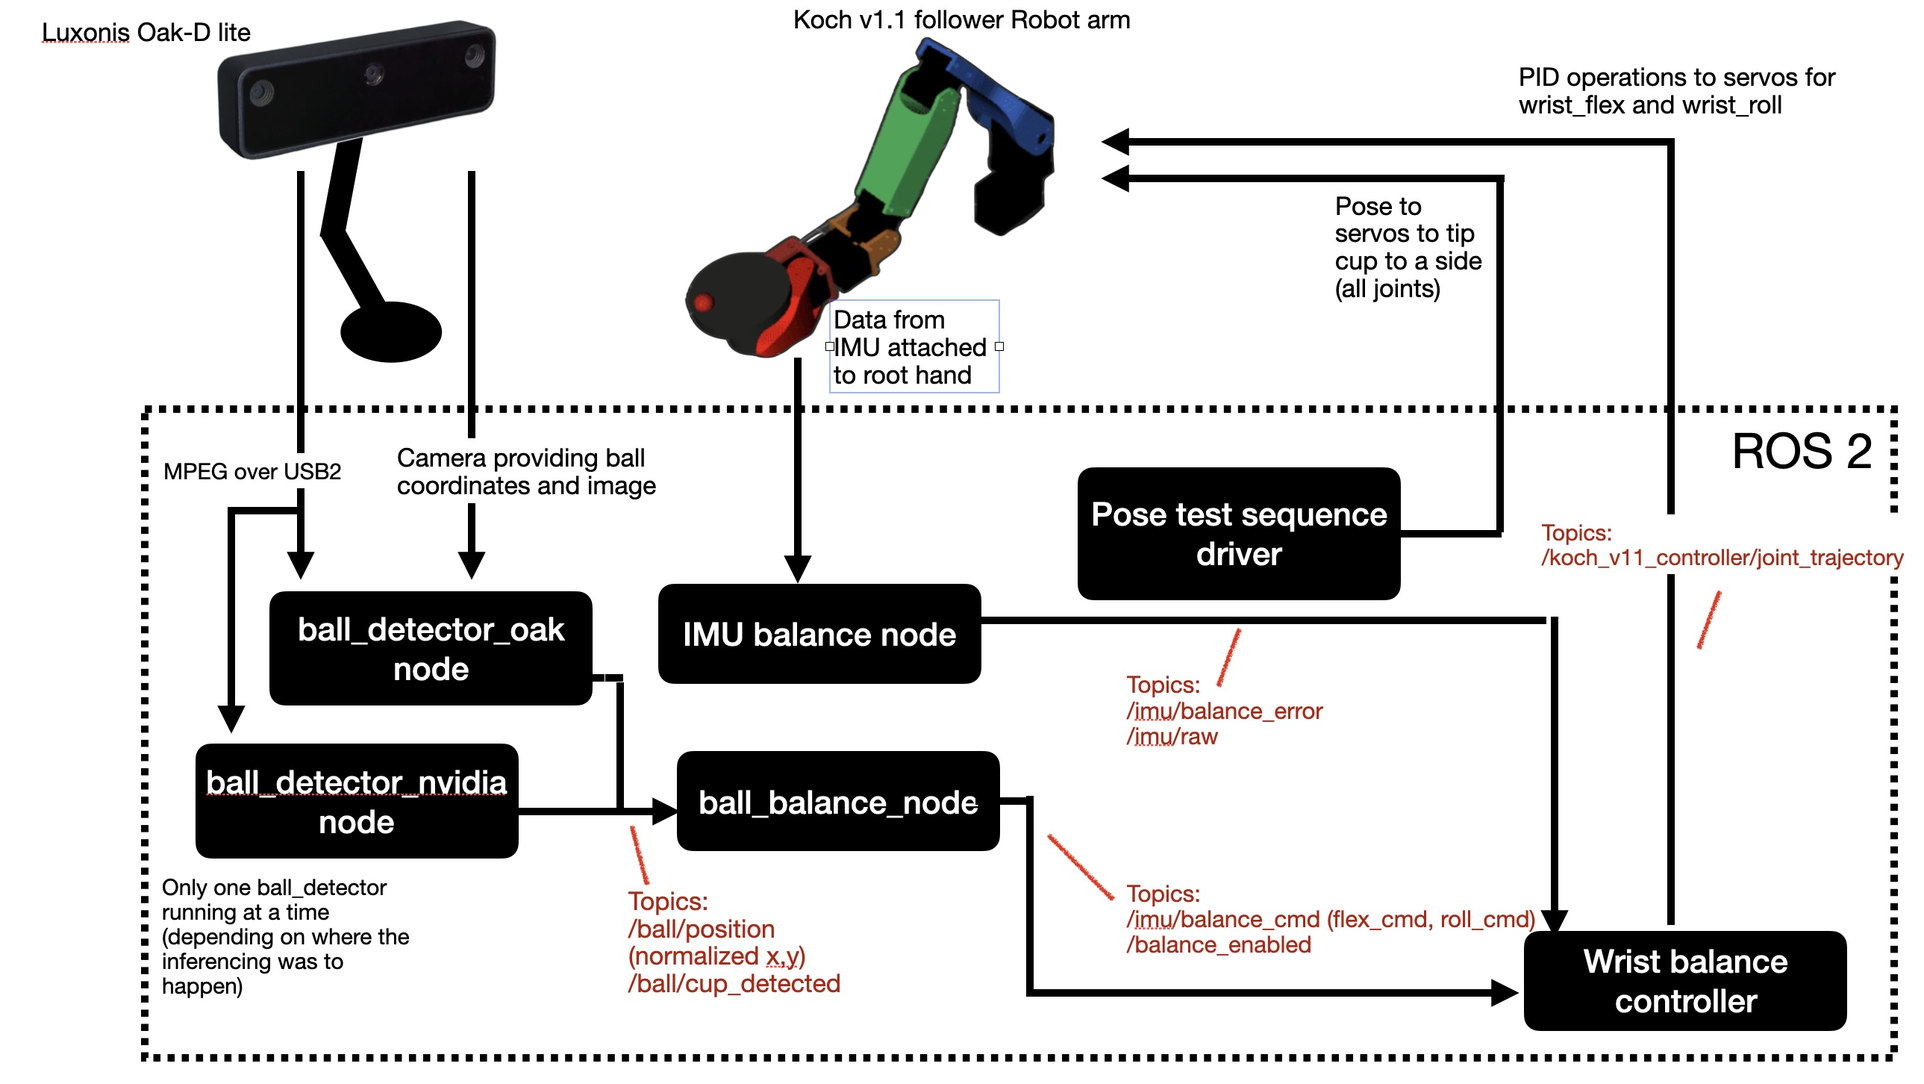
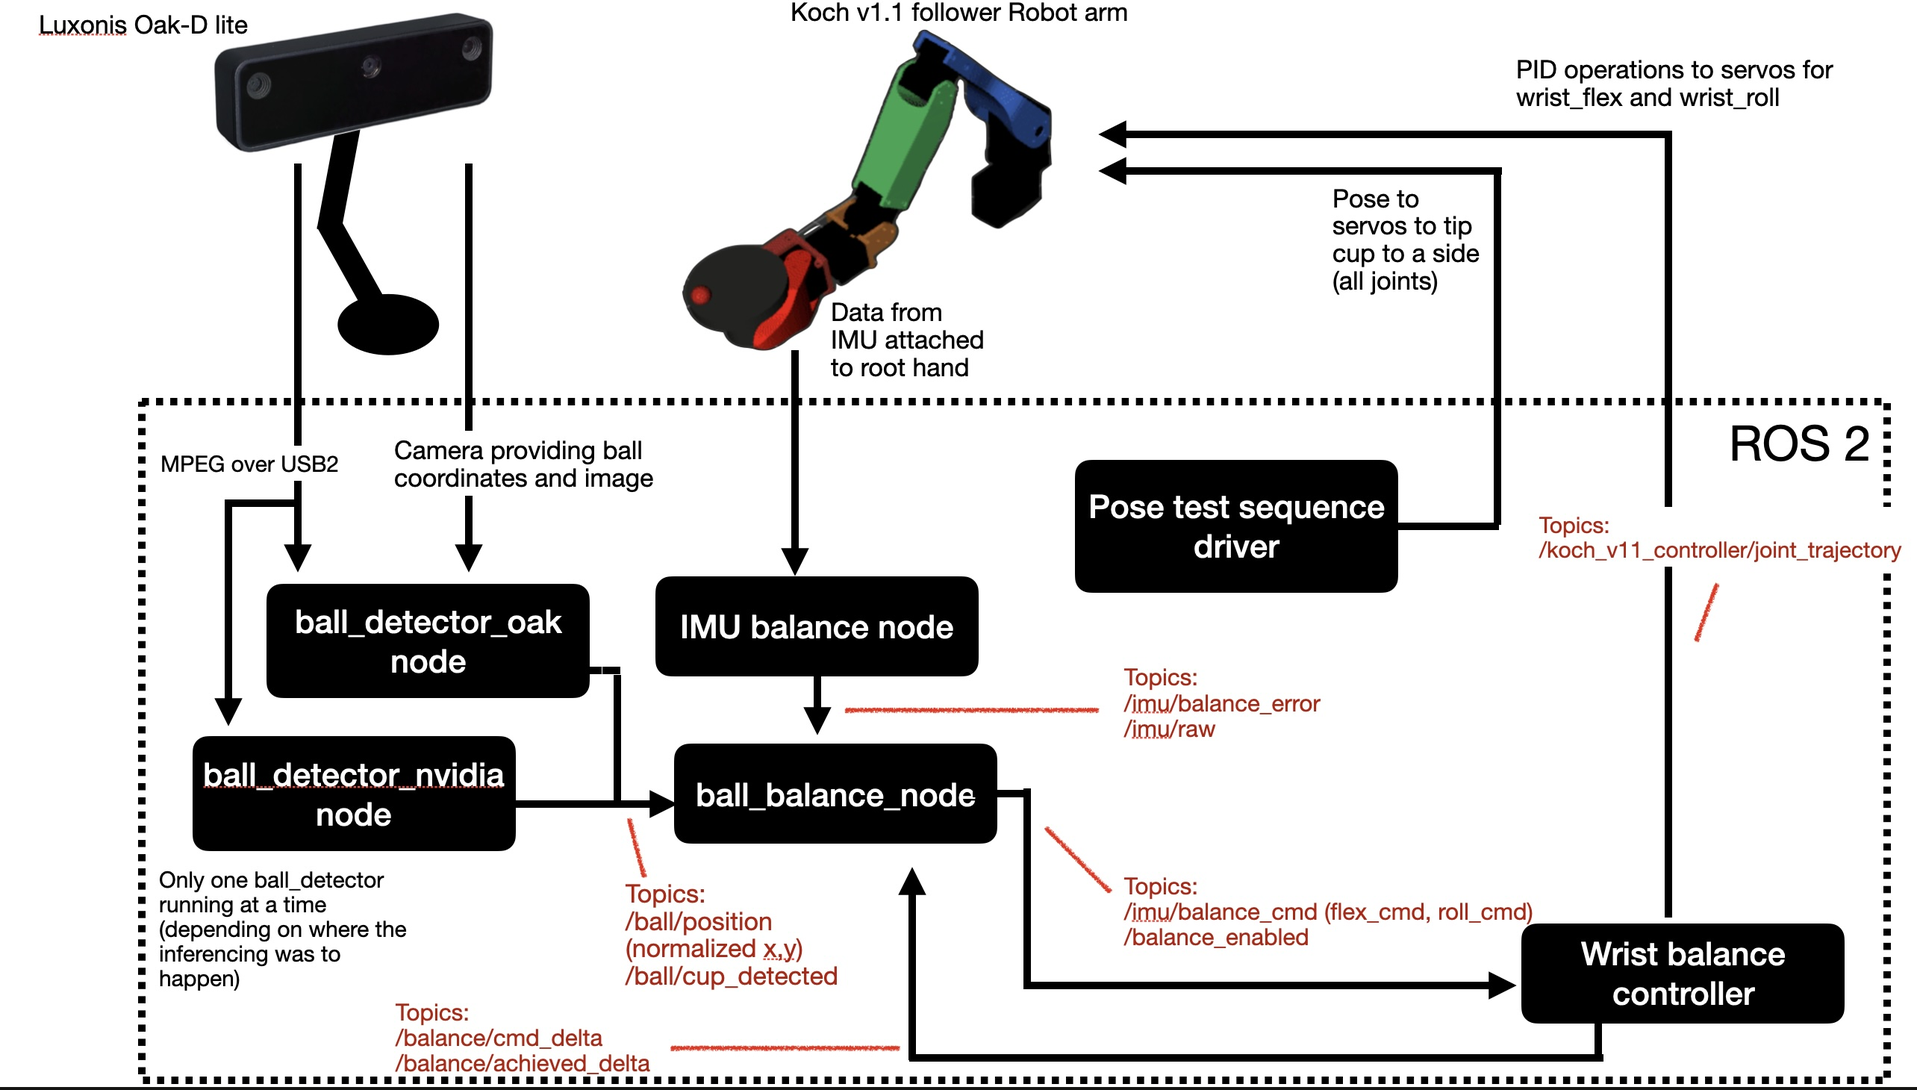
updated pid documentation

Changed region(s): [[0.0, 0.0, 1.0, 1.0], [0.0312, 0.0, 0.2492, 0.093], [0.0623, 0.5269, 0.0935, 0.5579]]

diff --git a/documentation/ball_balance_pid_documentation.md b/documentation/ball_balance_pid_documentation.md
@@ -97,11 +97,11 @@ The positions from which the PID must operate to balance are defined in the [pos
 
 *The standard characterization of I-term** is "accumulates past error over time to eliminate steady-state offset." The classic example: a thermostat with only P-term will hold temperature slightly below the setpoint because the proportional correction weakens as the error shrinks — eventually the small remaining error produces just enough heating to balance heat loss, but never quite reaches the target. The I-term accumulates that persistent small error and keeps increasing the command until the offset is eliminated.
 
-Currently, we are using the error in the servo's commanded vs. actual position to define the I-term error. That is, after each pose is set each servo 's wheel has been moved to some position. When the PID algorithm kicks in it will start to set new incremental targets for the wrist_flex and wrist_roll in order to move the ball into the center. How well the servo does to reach that position defines the error. It can either do really well, fail misreably, or fall somewhere in between. In all cases we can get that information because the servo reports its position. 
+Currently, we are using the error in the servo's commanded vs. actual position to define the I-term error. That is, after each pose is set each servo's wheel has been moved to some position. When the PID algorithm kicks in it will start to set new incremental targets for the wrist_flex and wrist_roll in order to move the ball into the center. How well the servo does to reach that position defines the error. It can either do really well, fail misreably, or fall somewhere in between. In all cases we can get that information because the servo reports its position. 
 
-Lets look at an actual scenario for one of the difficult scenarios in our test: pose 5. In this one, the arm tips the cup forward in a manner that puts significant strain on the wrist and elbow flex joints (essentially Servos 3 and 4). That is, it starts close to the wrist-flex-low pose shown in the figure above (position =  2.3 radians). Gravity makes it hard to do small moves. It can move in a single pose from there to the wrist-flex-high (position = 2.7 radians), but doing small incremental ones is more difficult for the XL-330's as is illustrated in this sequence below. The table output comes from the [corr_analysis.py](../balance/scripts/corr_analysis.py) script which analyzes the raw correction log output from the [wrist_balance_controller.py](../writing_robot_control/writing_robot_control/wrist_balance_controller.py). In this output it evaluates how well the two joints did in the sequence while the PID was operating. For each step the wrist flex is being commanded to move 1.719 radians but it is unable to make much headway. 
+Lets look at an actual scenario for one of the difficult scenarios in our test: pose 5. In this one, the arm tips the cup forward in a manner that puts significant strain on the wrist and elbow flex joints (essentially Servos 3 and 4). That is, it starts close to the wrist-flex-low pose shown in the figure above (position =  2.3 radians). Gravity makes it hard to do small moves. It can move in a single pose from there to the wrist-flex-high (position = 2.7 radians), but doing small incremental ones is more difficult for the XL-330's as is illustrated in this sequence below. The table output comes from the [corr_analysis.py](../balance/scripts/corr_analysis.py) script which analyzes the raw correction log output from the [wrist_balance_controller.py](../writing_robot_control/writing_robot_control/wrist_balance_controller.py). In this output it evaluates how well the two joints did in the sequence while the PID was operating. For each step the wrist flex was being commanded to move 1.719 radians but it is unable to make much headway. At step 1 it is being commanded to move from 2.2918 rad to 2.318 rad, but one can see that by the time step 2 fires it had only moved to 2.2933 (see the from in step 2). now the difference between the ending (2.2933 rad) and the start (2.2918 rad) is 0.0015 rad or 0.086 degrees. The flex servo was commanded to achieve 1.719 degrees, but only managed 0.086, that is 5% of goal. On the otherhand, the wrist_roll on the same steps did far better, achieving 92% of what it was targetted to do. This example also has no I-term influence.
 
-For example, at step 1 it is being commanded to move from 2.2918 rad to 2.318 rad, but one can see that by the time step 2 fires it had only moved to 2.2933 (see the from in step 2). now the difference between the ending (2.2933 rad) and the start (2.2918 rad) is 0.0015 rad or 0.086 degrees. The flex servo was commanded to achieve 1.719 degrees, but only managed 0.086, that is 5% of goal. On the otherhand, the wrist_roll on the same steps did far better, achieving 92% of what it was targetted to do. In this case, it was much easier to move side-to-side than forward to back. But the main point is that error in achievement by the wrist_flex joint needs to be fed back into the controller, else the outcome will remain the same: the proportional movement will stay fixed (a command to 1.719 degrees) without success. Since we know that larger steps are easier than smaller ones for the servo to achieve, the I contribution should grow 1.719 degrees into something larger. This wasn't being done in the case below, but has now been implemented.
+ On the otherhand, the wrist_roll on the same steps did far better, achieving 92% of what it was targetted to do. In this case, it was much easier to move side-to-side than forward to back. But the main point is that error in achievement by the wrist_flex joint needs to be fed back into the controller, else the outcome will (did) remain the same: the proportional movement will stay fixed (in this example a command to 1.719 degrees) without success. Since we know that larger steps are easier than smaller ones for the servo to achieve, the I contribution should grow 1.719 degrees into something larger. This wasn't being done in the case below, but has now been implemented.
 
 
 ```
@@ -130,22 +130,41 @@ For example, at step 1 it is being commanded to move from 2.2918 rad to 2.318 ra
 
 The error of the servo accumulates `commanded_delta - achieved_delta` — the gap between what was asked and what was delivered. This is conceptually the same thing but measured at a different layer. Notice that we are not asking:  "how long has the ball been off-center?", but rather "how much have I asked the servo to do that it hasn't done yet?" The accumulated undelivered displacement represents a debt that the controller owes to the system.
 
+The example below illustrates I-term impact. Step 5 hard a target of 1.770 degress. but only achieved 20% of that. The I-term then boosts the next step to shoot for 3.272 degrees and its able to do much better with this request achieving 59% of the targetted goal. This illustrates an important point the I-term: it boosts in the direction that the P-term is going. In the end, we found that small flex steps working against gravity's pull on the cup were harder to achieve than bigger ones, so we raised the per-step radian cap so that it was more achievable.  This reduced the need for I-term additive correction.
+
+```
+================================================================================
+  POSE : pose 5 - forward
+  Start: flex=2.2948 rad  roll=1.5999 rad
+  Duration: 19.5s    CORR steps: 19
+================================================================================
+  step  ── FLEX ──────────────────────────────────────  ── ROLL ──────────────────────────────────────      cumul(f,r)    intv
+            from       to   tgt_deg  act_deg  ratio%      from       to   tgt_deg  act_deg  ratio%
+  --------------------------------------------------------------------------------------------------------------------------------
+     :
+     :
+     5  flex:   2.2856→  2.3165 tgt= +1.770 act= +0.355    +20%  roll:   1.5048→  1.5048 tgt= +0.000 act= +0.000     N/A 
+     6  flex:   2.2918→  2.3489 tgt= +3.272 act= +1.931    +59%  roll:   1.5048→  1.4900 tgt= -0.850 act= -0.791    +93% 
+     7  flex:   2.3255→  2.3787 tgt= +3.048 act= +1.673    +55%  roll:   1.4910→  1.4911 tgt= +0.000 act= +0.000     +0%  
+     8  flex:   2.3547→  2.3883 tgt= +1.925 act= +0.699    +36%  roll:   1.4910→  1.4910 tgt= -0.000 act= +0.000     N/A  
+     9  flex:   2.3669→  2.3969 tgt= +1.719 act= +0.441    +26%  roll:   1.4910→  1.4910 tgt= -0.000 act= -0.086     N/A  
+ 
+```
 
 **The one place where the characterization slightly diverges** from classic I-term: traditional integral is about error *persistence in the output space* (the ball hasn't moved enough). Our servo integral is about error *persistence in the input space* (the actuator hasn't responded). These are related but not identical — it's possible for the servo to underdeliver while the ball is actually moving (if gravity is doing some of the work), in which case our logic would accumulate less than logic based solely on the ball movement would. We will see how that plays out as more tuning continues.
 
 
-### 2.3 IMU feedback and the prediction of future error
+### 2.3 IMU feedback as D-term to dampen PI 
 
-The D in PID stands for Derivative and is often described as the part of the logic that predicts future errors. This isn't quite correct, I think in particular for this implementation. What D-term actually does is respond to the rate of change of the error, not a prediction. The formula is `D = -kd × d(error)/dt`. If the ball is at position 0.7 in the cup (far from center) but moving toward center rapidly, the D-term reduces the correction command — because the error is already improving fast and a full P-term correction would overshoot. If the ball is at 0.7 and moving away from center, D-term adds to the correction. It's damping (TODO: define), not making a prediction. The "predicts future error" framing is an informal way of saying "if error is decreasing fast now, the future error will be smaller, so act accordingly."
+ Our final term in the PID is the D-term (or Derivative term). It is meant to dampen or reduce the positions that the P & I terms are aiming for. In our case its trying to minimize the ball overshooting the center target because the cup was tilted too far in the other direction. The D-term responds to the rate of change of the cups tilt and the formula is `D = -kd × d(cup_angle)/dt`. If the ball is at position 0.7 in the cup (far from center) but moving toward center rapidly, the D-term reduces the correction command (i.e., "dampens the change") — because the error (ball_position - center(0,0)) is already improving fast and a full P-term or I-term correction would overshoot the center. 
 
-Why are we using the IMU and not the camera for the D-term?  That is, if we used the camera computing `d(ball.y)/dt` from consecutive `/ball/position` topic readings seems reasonable at first: (ball.x, ball.y) move to (ball.x1, ball.y1) in time t. But it has a couple of problems. First, the camera runs at 35Hz with ~30ms latency (TODO: check), so by the time we compute the rate the cup has already moved. Second, the ball's position in the cup is an *effect* of cup tilt — by the time the ball has moved, the cup has already been tilted for some time. We'd be reacting to a lagging indicator.
+Why are we using the IMU and not the camera for the D-term?  One reason is the higher frequency of this signal. That is, if we used the camera computing `d(ball.y)/dt` from consecutive `/ball/position` topic readings seems reasonable at first: (ball.x, ball.y) move to (ball.x1, ball.y1) in time t. But it has a couple of problems. First, the camera runs at 35Hz with ~30ms latency with Nvidia inference (12 Hz or ~80 ms with Camera inference).  So by the time we compute the rate the cup has already moved. Second, the ball's position in the cup is an *effect* of cup tilt — by the time the ball has moved, the cup has already been tilted for some time. We'd be reacting to a more lagging indicator.
 
 Why IMU-based D-term is better: The IMU measures angular_velocity of the cup directly — the cause of ball movement rather than the effect. When the wrist_flex servo moves the cup, the IMU detects the tilt rate within milliseconds at 50Hz (every 20 ms), well before the ball has had time to roll significantly. So `d(flex) = -kd × imu_pitch_rate` is saying: "the cup is currently tilting forward at X rad/s — reduce the flex command so it doesn't tilt too far and cause the ball to overshoot center." 
 
 The concrete scenario where this should help our system: During pose 1 (initial), the ball starts at y=-0.73 (far side). The P-term commands a strong negative flex correction. The cup starts tilting, the ball rolls toward center. Without D-term, the P-term stays large until the ball reaches 0.0 — but by then the cup has built up angular momentum and the ball overshoots to +0.7 on the other side. With IMU D-term: as the cup tilts at increasing pitch rate, imu_pitch_rate grows negative, `-kd × negative_rate` adds a positive contribution to flex_cmd, partially canceling the P-term. The cup decelerates before the ball reaches center. The ball arrives at center with less momentum. This is the damping behavior we need to stop the oscillation.
-The "prediction" framing applied properly: The IMU is sensing the cup's angular velocity right now. Since the ball's future position is determined by current cup tilt rate (a ball on a tilting surface accelerates proportionally to tilt angle), the IMU rate is a leading indicator of where the ball will be in 200-500ms. In that sense the D-term from the IMU is genuinely predictive — it acts on cup motion before the ball has moved, rather than reacting after the ball has already overshot.
+The "prediction" framing applied properly: The IMU is sensing the cup's angular velocity right now. Since the ball's future position is determined by current cup tilt rate (a ball on a tilting surface accelerates proportionally to tilt angle), the IMU rate is a leading indicator of where the ball will be in 200-500ms. In that sense the D-term from the IMU is genuinely predictive — it hopefully acts on cup motion before the ball has moved, rather than reacting after the ball has already overshot.
 
-This is the theory at least, as of 05-13-2026 we don't have it working. ;-)
 
 ### 2.4 Summary of PID logic
 **this section needs and update**
@@ -155,24 +174,58 @@ The full sign chain from ball position to joint correction:
 error_x = ball.x   (positive = ball right  → need to roll left  → positive wrist_roll)
 error_y = ball.y   (positive = ball near   → need to flex back  → positive wrist_flex)
 
-Pflex = +kp_flex × error_y        computed in ball_balance_node
-Proll = +kp_roll × error_x        computed in ball_balance_node
+── P-term ──────────────────────────────────────────────────────
+Pflex = +kp_flex × error_y
+Proll = +kp_roll × error_x
 
-flex_cmd = Pflex + Dflex           (Dflex=0 in this run)
-roll_cmd = Proll + Droll           (Droll=0 in this run)
+── I-term (ki_mode=servo) ──────────────────────────────────────
+# Accumulates undelivered servo delta each step.
+# Only grows when wrist_balance_controller underdelivers.
+# Resets to zero on MOVING→SETTLED state transition.
 
-  → published to /imu/balance_cmd at ~15Hz
+i_flex += ki_flex × (cmd_delta_flex - achieved_delta_flex) × dt
+i_roll += ki_roll × (cmd_delta_roll - achieved_delta_roll) × dt
+Iflex   = i_flex
+Iroll   = i_roll
 
-flex_delta = flex_cmd × flex_scale × dt    computed in wrist_balance_controller
-roll_delta = roll_cmd × roll_scale × dt    dt = 1/correction_hz = 0.2s at 5Hz
+── D-term ──────────────────────────────────────────────────────
+# IMU angular velocity — cup tilt rate, not d(ball_error)/dt.
+# Opposes all cup motion regardless of direction.
+# Damps overshoot (main purpose) but also slightly resists
+# intentional corrections — trade-off controlled by kd.
+# imu_pitch_rate ← angular_velocity.y (dp) from /imu/raw
+# imu_roll_rate  ← angular_velocity.x (dr) from /imu/raw
+# NOTE: x=roll, y=pitch — opposite to ROS REP-103 convention.
+Dflex = -kd_flex × imu_pitch_rate
+Droll = -kd_roll × imu_roll_rate
 
+── Combined command ────────────────────────────────────────────
+flex_cmd = Pflex + Iflex + Dflex    } published to
+roll_cmd = Proll + Iroll + Droll    } /imu/balance_cmd at ~15Hz
+flex_cmd = clamp(flex_cmd, -max_cmd, +max_cmd)
+roll_cmd = clamp(roll_cmd, -max_cmd, +max_cmd)
+
+── Wrist controller ────────────────────────────────────────────
+# Receives flex_cmd/roll_cmd, converts to joint trajectory.
+# Also publishes achieved_delta back to ball_balance_node
+# so ki_mode=servo can measure underdelivery.
+flex_delta = flex_cmd × dt    dt = 1/correction_hz = 1.0s
+roll_delta = roll_cmd × dt
 flex_delta = clamp(flex_delta, -max_step_rad, +max_step_rad)
 roll_delta = clamp(roll_delta, -max_step_rad, +max_step_rad)
-
 new_wrist_flex = current_wrist_flex + flex_delta
 new_wrist_roll = current_wrist_roll + roll_delta
-
   → published to /koch_v11_controller/joint_trajectory
+
+── Feedback loop (ki_mode=servo) ───────────────────────────────
+# Closes the loop between wrist_balance_controller and
+# ball_balance_node so the I-term knows what was actually
+# delivered vs commanded.
+/balance/cmd_delta      ← actual_flex_delta, actual_roll_delta
+                           (what wrist controller sent to servo)
+/balance/achieved_delta ← true_achieved_flex, true_achieved_roll
+                           (how far servo actually moved,
+                            measured next step from joint_states)
 ```
 
 `current_wrist_flex` and `current_wrist_roll` are the **actual measured joint positions
@@ -207,23 +260,31 @@ Three nodes participate in the correction pipeline, each running on its own inde
 timer. They are **not synchronized** to each other:
 
 ```
-ball_detector_nvidia     publishes /ball/position     ~35fps   (28ms intervals)
-ball_balance_node        publishes /imu/balance_cmd   ~15Hz    (67ms intervals)  
-wrist_balance_controller executes corrections         1Hz      (1000ms intervals)
+imu_balance_node         publishes /imu/raw
+ball_detector_nvidia     publishes /ball/position         ~35fps   (28ms intervals)
+ball_balance_node        publishes /ball/balance_cmd      ~15Hz    (67ms intervals)  
+wrist_balance_controller executes corrections              1Hz      (1000ms intervals)
+wrist_balance_controller publishes /balance/cmd_delta      1Hz
+wrist_balance_controller publishes /balance/achieved_deta  1Hz
 ```
 
-`ball_balance_node` runs a control loop at 15Hz. Each cycle it reads the latest
-`/ball/position` value (which may be up to 67ms old), computes P×error, and publishes
-to `/imu/balance_cmd`. The CMD log line is **throttled to 1Hz** in the logger, so the
+`ball_balance_node` runs a control loop at 15Hz. Each cycle it reads the latest:
+- `/ball/position` value (which may be up to 67ms old) to calculate the P-term,
+- `/balance/cmd_delta` and `/balance/achieved_deta` values to understand how well the servo's achieving their targets in order to calculate the I-term.
+- `/imu/raw` value to get the cup angular velocity to calculate the D-term,
+
+and then publishes to `/imu/balance_cmd` the new values.
+
+The CMD log line is **throttled to 1Hz** in the logger, so the
 log shows only 1 CMD line per second even though the topic updates 15 times per second.
 
 `wrist_balance_controller` runs its correction timer at 5Hz independently. Each cycle
 it reads whatever the latest `/imu/balance_cmd` value is at that moment — it does not
 wait for a fresh one. The CMD it acts on may be up to 1000ms old. In the log, CORR
-lines appear approximately every 1000ms. 
+lines appear approximately every 1000ms. Likewise it publishes the `/balance/cmd_delta` and `/balance/achieved_deta` values (as noted earlier) to help `ball_balance_node` compute the I-term.
 
 Now, 1000 ms between corrections is a long time. This was chosen due to issues with the 
-servo motors at less than 1000ms (see [test results and analysis for more details](./balance_test_results.md)).
+servo motors at less than 1000ms in which the servo's ended up significantly oscillating the arm in the flex direction when fed too many corrections per sec (see [test results and analysis for more details](./balance_test_results.md)).
 
 The practical consequence is that **CMD and CORR lines in the log are not paired**.
 A CORR at time T is acting on the CMD that happened to be the most recent one when T
